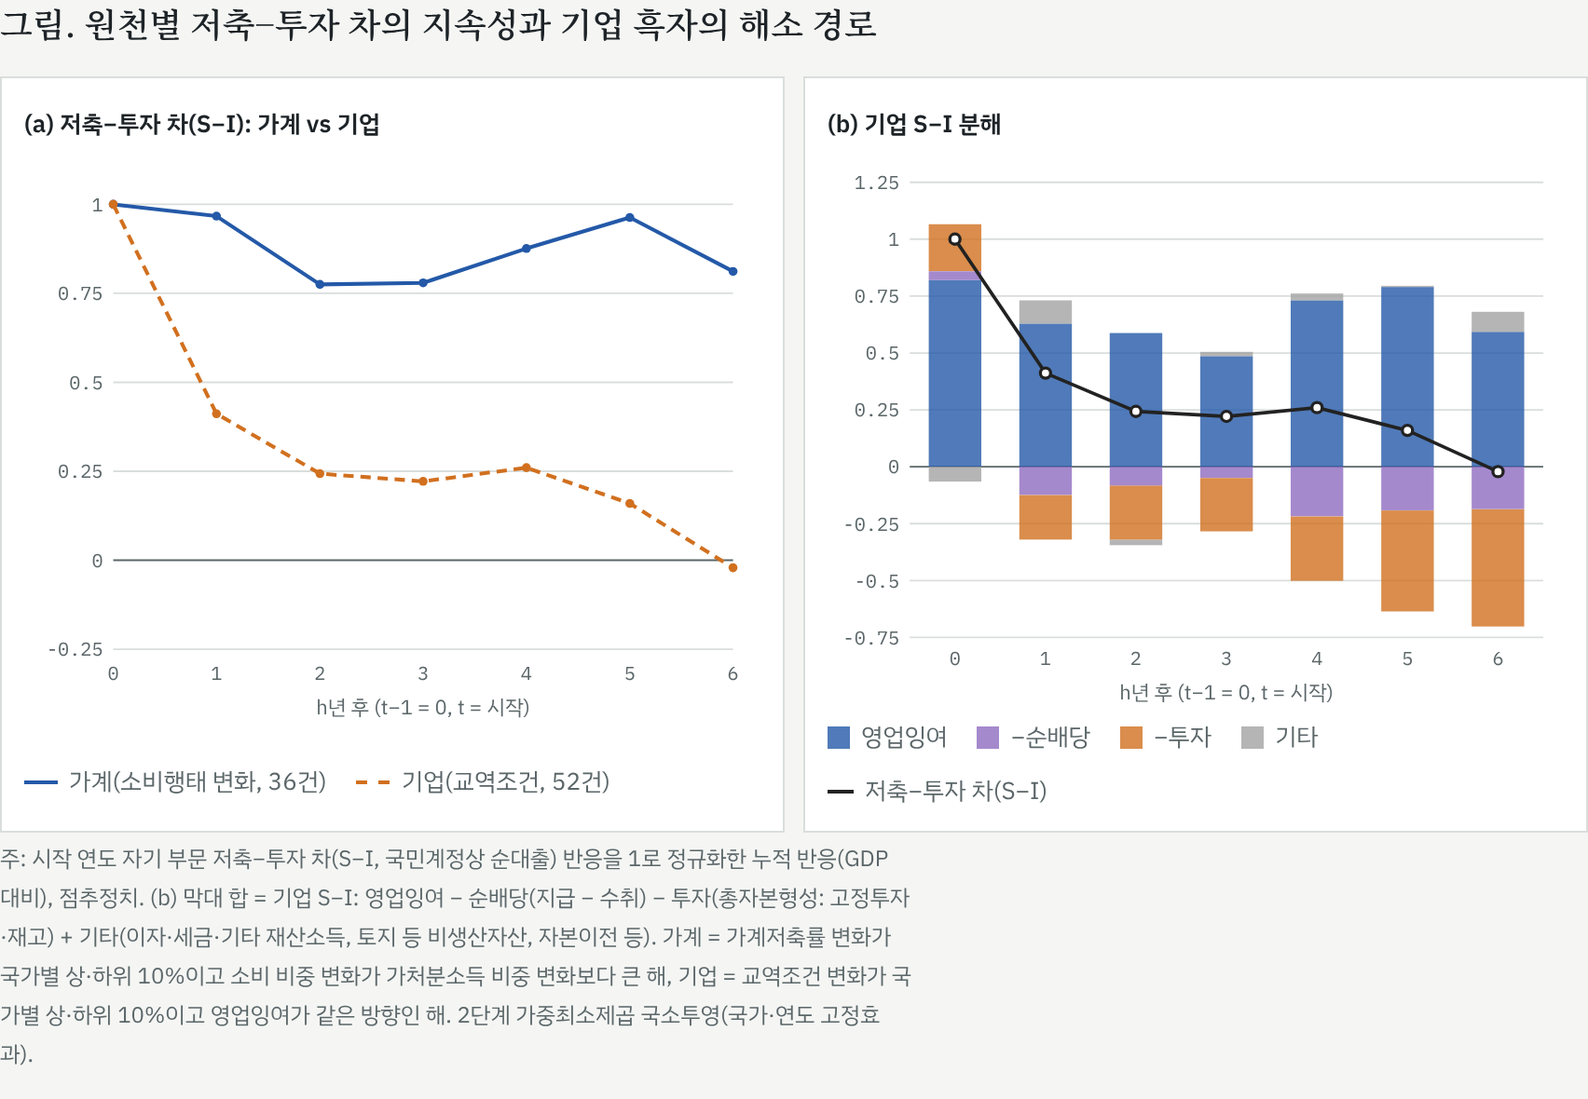
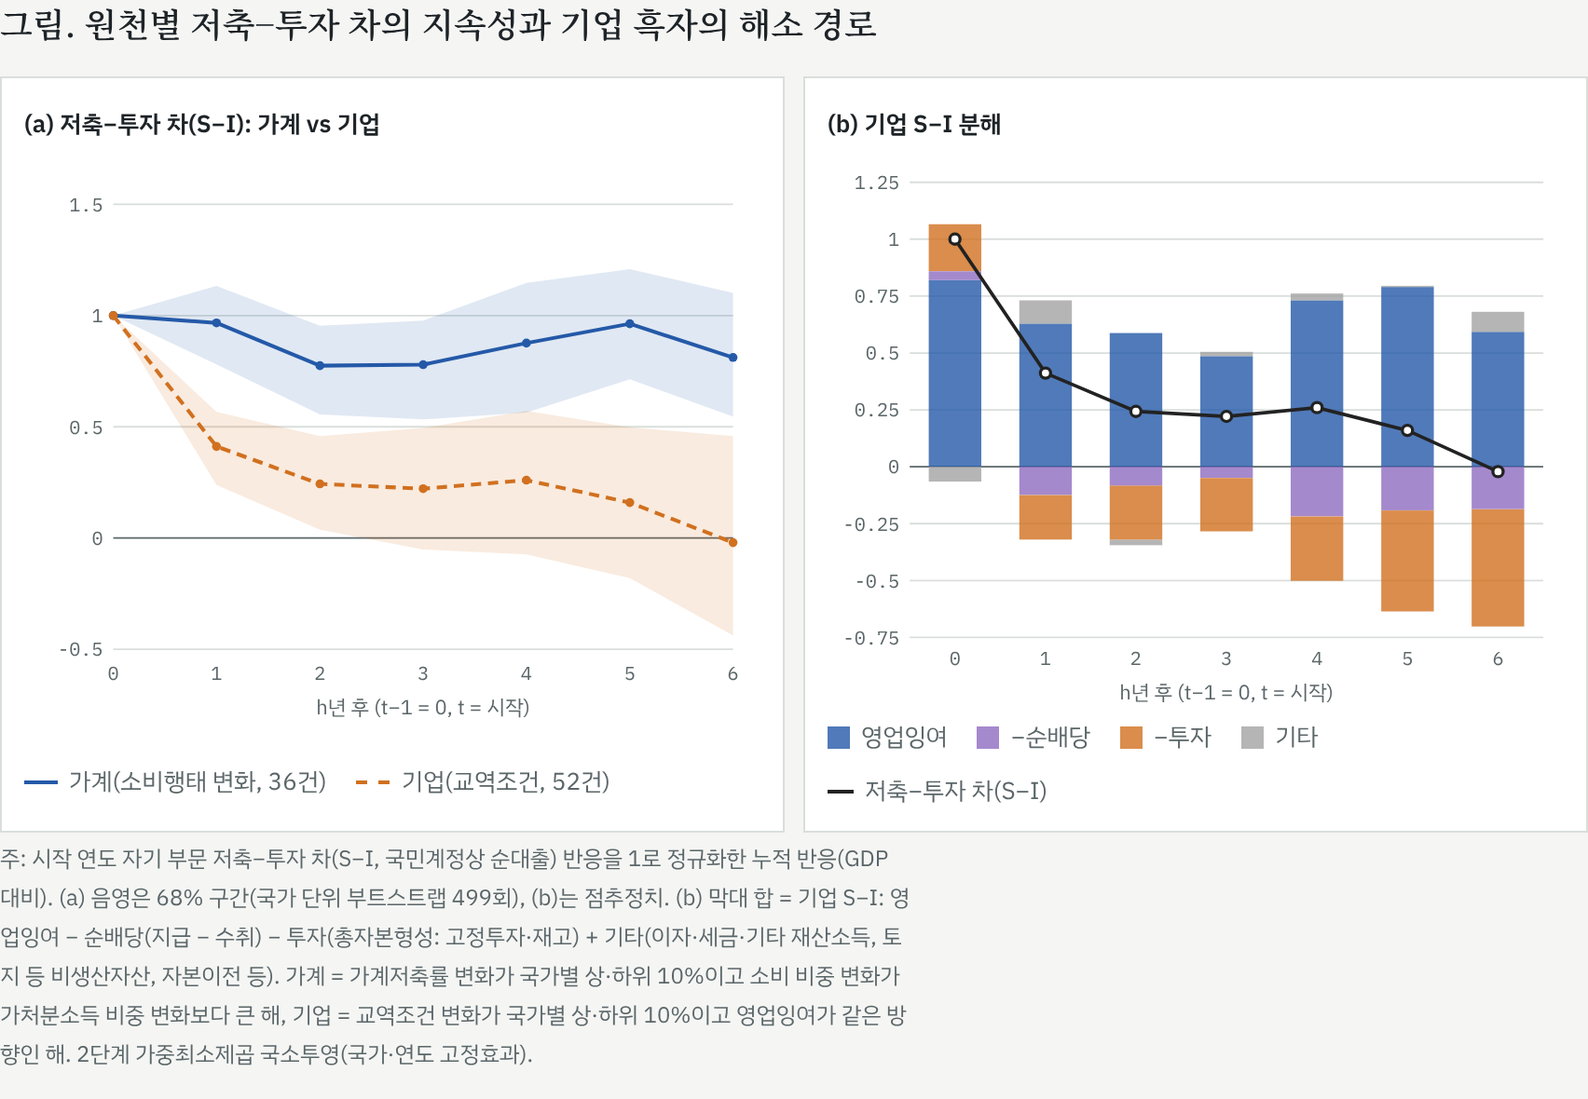
Add 68% bands to the household vs corporate S−I panel
Claude-Session: https://claude.ai/code/session_01QSFGVrqZTZBvgbV4CUsjF6

diff --git a/research/sector_saving_ca/output/ep_report_bars.html b/research/sector_saving_ca/output/ep_report_bars.html
@@ -79,6 +79,6 @@ footer { font-size: 13px; color: var(--muted); border-top: 1px solid var(--rule)
 </style>
 
 <style>
-svg .line.s1{stroke:#2459a8;fill:none;stroke-width:2.2} svg .dot.s1{fill:#2459a8}
-svg .line.s2{stroke:#d1701f;fill:none;stroke-width:2.2;stroke-dasharray:6 4} svg .dot.s2{fill:#d1701f}
-.sw.s1{border-color:#2459a8} .sw.s2{border-color:#d1701f;border-top-style:dashed}</style></head><body><main style="max-width:900px"><section id="F"><h2 style="font-size:18px">그림. 원천별 저축−투자 차의 지속성과 기업 흑자의 해소 경로</h2><div style="display:grid;grid-template-columns:1fr 1fr;gap:10px"><figure><div class="panel-title">(a) 저축−투자 차(S−I): 가계 vs 기업</div><svg viewBox="0 0 430 320" role="img" aria-label="(a) 저축−투자 차(S−I): 가계 vs 기업"><line class="grid" x1="52" x2="414" y1="276.0" y2="276.0"/><text class="tick" x="46" y="280.0" text-anchor="end">-0.25</text><line class="zero" x1="52" x2="414" y1="224.0" y2="224.0"/><text class="tick" x="46" y="228.0" text-anchor="end">0</text><line class="grid" x1="52" x2="414" y1="172.0" y2="172.0"/><text class="tick" x="46" y="176.0" text-anchor="end">0.25</text><line class="grid" x1="52" x2="414" y1="120.0" y2="120.0"/><text class="tick" x="46" y="124.0" text-anchor="end">0.5</text><line class="grid" x1="52" x2="414" y1="68.0" y2="68.0"/><text class="tick" x="46" y="72.0" text-anchor="end">0.75</text><line class="grid" x1="52" x2="414" y1="16.0" y2="16.0"/><text class="tick" x="46" y="20.0" text-anchor="end">1</text><text class="tick" x="52.0" y="294" text-anchor="middle">0</text><text class="tick" x="112.3" y="294" text-anchor="middle">1</text><text class="tick" x="172.7" y="294" text-anchor="middle">2</text><text class="tick" x="233.0" y="294" text-anchor="middle">3</text><text class="tick" x="293.3" y="294" text-anchor="middle">4</text><text class="tick" x="353.7" y="294" text-anchor="middle">5</text><text class="tick" x="414.0" y="294" text-anchor="middle">6</text><text class="axis" x="233.0" y="314" text-anchor="middle">h년 후 (t−1 = 0, t = 시작)</text><polyline class="line s1" points="52.0,16.0 112.3,22.9 172.7,62.8 233.0,61.9 293.3,41.8 353.7,23.7 414.0,55.2"/><circle class="dot s1" cx="52.0" cy="16.0" r="2.6"/><circle class="dot s1" cx="112.3" cy="22.9" r="2.6"/><circle class="dot s1" cx="172.7" cy="62.8" r="2.6"/><circle class="dot s1" cx="233.0" cy="61.9" r="2.6"/><circle class="dot s1" cx="293.3" cy="41.8" r="2.6"/><circle class="dot s1" cx="353.7" cy="23.7" r="2.6"/><circle class="dot s1" cx="414.0" cy="55.2" r="2.6"/><polyline class="line s2" points="52.0,16.0 112.3,138.4 172.7,173.4 233.0,177.9 293.3,169.9 353.7,190.8 414.0,228.4"/><circle class="dot s2" cx="52.0" cy="16.0" r="2.6"/><circle class="dot s2" cx="112.3" cy="138.4" r="2.6"/><circle class="dot s2" cx="172.7" cy="173.4" r="2.6"/><circle class="dot s2" cx="233.0" cy="177.9" r="2.6"/><circle class="dot s2" cx="293.3" cy="169.9" r="2.6"/><circle class="dot s2" cx="353.7" cy="190.8" r="2.6"/><circle class="dot s2" cx="414.0" cy="228.4" r="2.6"/></svg><div class="legend"><span><i class="sw s1"></i>가계(소비행태 변화, 36건)</span><span><i class="sw s2"></i>기업(교역조건, 52건)</span></div></figure><figure><div class="panel-title">(b) 기업 S−I 분해</div><svg viewBox="0 0 430 320" role="img" aria-label="(b) 기업 S−I 분해"><line class="grid" x1="48" x2="418" y1="280.0" y2="280.0"/><text class="tick" x="42" y="284.0" text-anchor="end">-0.75</text><line class="grid" x1="48" x2="418" y1="246.8" y2="246.8"/><text class="tick" x="42" y="250.8" text-anchor="end">-0.5</text><line class="grid" x1="48" x2="418" y1="213.5" y2="213.5"/><text class="tick" x="42" y="217.5" text-anchor="end">-0.25</text><line class="zero" x1="48" x2="418" y1="180.2" y2="180.2"/><text class="tick" x="42" y="184.2" text-anchor="end">0</text><line class="grid" x1="48" x2="418" y1="147.0" y2="147.0"/><text class="tick" x="42" y="151.0" text-anchor="end">0.25</text><line class="grid" x1="48" x2="418" y1="113.8" y2="113.8"/><text class="tick" x="42" y="117.8" text-anchor="end">0.5</text><line class="grid" x1="48" x2="418" y1="80.5" y2="80.5"/><text class="tick" x="42" y="84.5" text-anchor="end">0.75</text><line class="grid" x1="48" x2="418" y1="47.2" y2="47.2"/><text class="tick" x="42" y="51.2" text-anchor="end">1</text><line class="grid" x1="48" x2="418" y1="14.0" y2="14.0"/><text class="tick" x="42" y="18.0" text-anchor="end">1.25</text><rect x="59.1" y="71.1" width="30.7" height="109.2" fill="#2459a8" opacity=".8"/><rect x="59.1" y="66.0" width="30.7" height="5.1" fill="#8e6cc0" opacity=".8"/><rect x="59.1" y="38.5" width="30.7" height="27.4" fill="#d1701f" opacity=".8"/><rect x="59.1" y="180.2" width="30.7" height="8.7" fill="#a3a3a3" opacity=".8"/><text class="tick" x="74.4" y="296" text-anchor="middle">0</text><rect x="112.0" y="96.6" width="30.7" height="83.6" fill="#2459a8" opacity=".8"/><rect x="112.0" y="180.2" width="30.7" height="16.5" fill="#8e6cc0" opacity=".8"/><rect x="112.0" y="196.8" width="30.7" height="26.0" fill="#d1701f" opacity=".8"/><rect x="112.0" y="83.0" width="30.7" height="13.6" fill="#a3a3a3" opacity=".8"/><text class="tick" x="127.3" y="296" text-anchor="middle">1</text><rect x="164.8" y="102.1" width="30.7" height="78.2" fill="#2459a8" opacity=".8"/><rect x="164.8" y="180.2" width="30.7" height="11.1" fill="#8e6cc0" opacity=".8"/><rect x="164.8" y="191.3" width="30.7" height="31.6" fill="#d1701f" opacity=".8"/><rect x="164.8" y="222.9" width="30.7" height="3.2" fill="#a3a3a3" opacity=".8"/><text class="tick" x="180.1" y="296" text-anchor="middle">2</text><rect x="217.7" y="115.6" width="30.7" height="64.6" fill="#2459a8" opacity=".8"/><rect x="217.7" y="180.2" width="30.7" height="6.5" fill="#8e6cc0" opacity=".8"/><rect x="217.7" y="186.8" width="30.7" height="31.2" fill="#d1701f" opacity=".8"/><rect x="217.7" y="113.1" width="30.7" height="2.5" fill="#a3a3a3" opacity=".8"/><text class="tick" x="233.0" y="296" text-anchor="middle">3</text><rect x="270.5" y="83.0" width="30.7" height="97.2" fill="#2459a8" opacity=".8"/><rect x="270.5" y="180.2" width="30.7" height="29.0" fill="#8e6cc0" opacity=".8"/><rect x="270.5" y="209.3" width="30.7" height="37.6" fill="#d1701f" opacity=".8"/><rect x="270.5" y="79.0" width="30.7" height="4.0" fill="#a3a3a3" opacity=".8"/><text class="tick" x="285.9" y="296" text-anchor="middle">4</text><rect x="323.4" y="75.2" width="30.7" height="105.0" fill="#2459a8" opacity=".8"/><rect x="323.4" y="180.2" width="30.7" height="25.5" fill="#8e6cc0" opacity=".8"/><rect x="323.4" y="205.8" width="30.7" height="59.0" fill="#d1701f" opacity=".8"/><rect x="323.4" y="74.5" width="30.7" height="0.7" fill="#a3a3a3" opacity=".8"/><text class="tick" x="338.7" y="296" text-anchor="middle">5</text><rect x="376.2" y="101.4" width="30.7" height="78.8" fill="#2459a8" opacity=".8"/><rect x="376.2" y="180.2" width="30.7" height="24.8" fill="#8e6cc0" opacity=".8"/><rect x="376.2" y="205.1" width="30.7" height="68.5" fill="#d1701f" opacity=".8"/><rect x="376.2" y="89.7" width="30.7" height="11.7" fill="#a3a3a3" opacity=".8"/><text class="tick" x="391.6" y="296" text-anchor="middle">6</text><text class="axis" x="233.0" y="316" text-anchor="middle">h년 후 (t−1 = 0, t = 시작)</text><polyline points="74.4,47.2 127.3,125.5 180.1,147.9 233.0,150.8 285.9,145.7 338.7,159.0 391.6,183.1" fill="none" stroke="#222" stroke-width="2"/><circle cx="74.4" cy="47.2" r="3" fill="#fff" stroke="#222" stroke-width="1.8"/><circle cx="127.3" cy="125.5" r="3" fill="#fff" stroke="#222" stroke-width="1.8"/><circle cx="180.1" cy="147.9" r="3" fill="#fff" stroke="#222" stroke-width="1.8"/><circle cx="233.0" cy="150.8" r="3" fill="#fff" stroke="#222" stroke-width="1.8"/><circle cx="285.9" cy="145.7" r="3" fill="#fff" stroke="#222" stroke-width="1.8"/><circle cx="338.7" cy="159.0" r="3" fill="#fff" stroke="#222" stroke-width="1.8"/><circle cx="391.6" cy="183.1" r="3" fill="#fff" stroke="#222" stroke-width="1.8"/></svg><div class="legend"><span><i style="display:inline-block;width:12px;height:12px;background:#2459a8;opacity:.8"></i>영업잉여</span><span><i style="display:inline-block;width:12px;height:12px;background:#8e6cc0;opacity:.8"></i>−순배당</span><span><i style="display:inline-block;width:12px;height:12px;background:#d1701f;opacity:.8"></i>−투자</span><span><i style="display:inline-block;width:12px;height:12px;background:#a3a3a3;opacity:.8"></i>기타</span><span><i style="display:inline-block;width:14px;border-top:2px solid #222"></i>저축−투자 차(S−I)</span></div></figure></div><p class="ci" style="font-size:12px">주: 시작 연도 자기 부문 저축−투자 차(S−I, 국민계정상 순대출) 반응을 1로 정규화한 누적 반응(GDP 대비), 점추정치. (b) 막대 합 = 기업 S−I: 영업잉여 − 순배당(지급 − 수취) − 투자(총자본형성: 고정투자·재고) + 기타(이자·세금·기타 재산소득, 토지 등 비생산자산, 자본이전 등). 가계 = 가계저축률 변화가 국가별 상·하위 10%이고 소비 비중 변화가 가처분소득 비중 변화보다 큰 해, 기업 = 교역조건 변화가 국가별 상·하위 10%이고 영업잉여가 같은 방향인 해. 2단계 가중최소제곱 국소투영(국가·연도 고정효과).</p></section></main></body></html>
+svg .line.s1{stroke:#2459a8;fill:none;stroke-width:2.2} svg .dot.s1{fill:#2459a8} svg .band.s1{fill:#2459a8;opacity:.14}
+svg .line.s2{stroke:#d1701f;fill:none;stroke-width:2.2;stroke-dasharray:6 4} svg .dot.s2{fill:#d1701f} svg .band.s2{fill:#d1701f;opacity:.14}
+.sw.s1{border-color:#2459a8} .sw.s2{border-color:#d1701f;border-top-style:dashed}</style></head><body><main style="max-width:900px"><section id="F"><h2 style="font-size:18px">그림. 원천별 저축−투자 차의 지속성과 기업 흑자의 해소 경로</h2><div style="display:grid;grid-template-columns:1fr 1fr;gap:10px"><figure><div class="panel-title">(a) 저축−투자 차(S−I): 가계 vs 기업</div><svg viewBox="0 0 430 320" role="img" aria-label="(a) 저축−투자 차(S−I): 가계 vs 기업"><line class="grid" x1="52" x2="414" y1="276.0" y2="276.0"/><text class="tick" x="46" y="280.0" text-anchor="end">-0.5</text><line class="zero" x1="52" x2="414" y1="211.0" y2="211.0"/><text class="tick" x="46" y="215.0" text-anchor="end">0</text><line class="grid" x1="52" x2="414" y1="146.0" y2="146.0"/><text class="tick" x="46" y="150.0" text-anchor="end">0.5</text><line class="grid" x1="52" x2="414" y1="81.0" y2="81.0"/><text class="tick" x="46" y="85.0" text-anchor="end">1</text><line class="grid" x1="52" x2="414" y1="16.0" y2="16.0"/><text class="tick" x="46" y="20.0" text-anchor="end">1.5</text><text class="tick" x="52.0" y="294" text-anchor="middle">0</text><text class="tick" x="112.3" y="294" text-anchor="middle">1</text><text class="tick" x="172.7" y="294" text-anchor="middle">2</text><text class="tick" x="233.0" y="294" text-anchor="middle">3</text><text class="tick" x="293.3" y="294" text-anchor="middle">4</text><text class="tick" x="353.7" y="294" text-anchor="middle">5</text><text class="tick" x="414.0" y="294" text-anchor="middle">6</text><text class="axis" x="233.0" y="314" text-anchor="middle">h년 후 (t−1 = 0, t = 시작)</text><polygon class="band s1" points="52.0,81.0 112.3,63.7 172.7,87.0 233.0,83.9 293.3,61.9 353.7,53.9 414.0,67.7 414.0,140.0 353.7,118.3 293.3,137.7 233.0,141.7 172.7,138.8 112.3,109.5 52.0,81.0"/><polygon class="band s2" points="52.0,81.0 112.3,137.3 172.7,151.4 233.0,146.7 293.3,136.7 353.7,146.3 414.0,151.4 414.0,267.9 353.7,234.5 293.3,220.6 233.0,217.7 172.7,206.2 112.3,180.0 52.0,81.0"/><polyline class="line s1" points="52.0,81.0 112.3,85.3 172.7,110.3 233.0,109.7 293.3,97.1 353.7,85.8 414.0,105.5"/><circle class="dot s1" cx="52.0" cy="81.0" r="2.6"/><circle class="dot s1" cx="112.3" cy="85.3" r="2.6"/><circle class="dot s1" cx="172.7" cy="110.3" r="2.6"/><circle class="dot s1" cx="233.0" cy="109.7" r="2.6"/><circle class="dot s1" cx="293.3" cy="97.1" r="2.6"/><circle class="dot s1" cx="353.7" cy="85.8" r="2.6"/><circle class="dot s1" cx="414.0" cy="105.5" r="2.6"/><polyline class="line s2" points="52.0,81.0 112.3,157.5 172.7,179.4 233.0,182.2 293.3,177.2 353.7,190.3 414.0,213.7"/><circle class="dot s2" cx="52.0" cy="81.0" r="2.6"/><circle class="dot s2" cx="112.3" cy="157.5" r="2.6"/><circle class="dot s2" cx="172.7" cy="179.4" r="2.6"/><circle class="dot s2" cx="233.0" cy="182.2" r="2.6"/><circle class="dot s2" cx="293.3" cy="177.2" r="2.6"/><circle class="dot s2" cx="353.7" cy="190.3" r="2.6"/><circle class="dot s2" cx="414.0" cy="213.7" r="2.6"/></svg><div class="legend"><span><i class="sw s1"></i>가계(소비행태 변화, 36건)</span><span><i class="sw s2"></i>기업(교역조건, 52건)</span></div></figure><figure><div class="panel-title">(b) 기업 S−I 분해</div><svg viewBox="0 0 430 320" role="img" aria-label="(b) 기업 S−I 분해"><line class="grid" x1="48" x2="418" y1="280.0" y2="280.0"/><text class="tick" x="42" y="284.0" text-anchor="end">-0.75</text><line class="grid" x1="48" x2="418" y1="246.8" y2="246.8"/><text class="tick" x="42" y="250.8" text-anchor="end">-0.5</text><line class="grid" x1="48" x2="418" y1="213.5" y2="213.5"/><text class="tick" x="42" y="217.5" text-anchor="end">-0.25</text><line class="zero" x1="48" x2="418" y1="180.2" y2="180.2"/><text class="tick" x="42" y="184.2" text-anchor="end">0</text><line class="grid" x1="48" x2="418" y1="147.0" y2="147.0"/><text class="tick" x="42" y="151.0" text-anchor="end">0.25</text><line class="grid" x1="48" x2="418" y1="113.8" y2="113.8"/><text class="tick" x="42" y="117.8" text-anchor="end">0.5</text><line class="grid" x1="48" x2="418" y1="80.5" y2="80.5"/><text class="tick" x="42" y="84.5" text-anchor="end">0.75</text><line class="grid" x1="48" x2="418" y1="47.2" y2="47.2"/><text class="tick" x="42" y="51.2" text-anchor="end">1</text><line class="grid" x1="48" x2="418" y1="14.0" y2="14.0"/><text class="tick" x="42" y="18.0" text-anchor="end">1.25</text><rect x="59.1" y="71.1" width="30.7" height="109.2" fill="#2459a8" opacity=".8"/><rect x="59.1" y="66.0" width="30.7" height="5.1" fill="#8e6cc0" opacity=".8"/><rect x="59.1" y="38.5" width="30.7" height="27.4" fill="#d1701f" opacity=".8"/><rect x="59.1" y="180.2" width="30.7" height="8.7" fill="#a3a3a3" opacity=".8"/><text class="tick" x="74.4" y="296" text-anchor="middle">0</text><rect x="112.0" y="96.6" width="30.7" height="83.6" fill="#2459a8" opacity=".8"/><rect x="112.0" y="180.2" width="30.7" height="16.5" fill="#8e6cc0" opacity=".8"/><rect x="112.0" y="196.8" width="30.7" height="26.0" fill="#d1701f" opacity=".8"/><rect x="112.0" y="83.0" width="30.7" height="13.6" fill="#a3a3a3" opacity=".8"/><text class="tick" x="127.3" y="296" text-anchor="middle">1</text><rect x="164.8" y="102.1" width="30.7" height="78.2" fill="#2459a8" opacity=".8"/><rect x="164.8" y="180.2" width="30.7" height="11.1" fill="#8e6cc0" opacity=".8"/><rect x="164.8" y="191.3" width="30.7" height="31.6" fill="#d1701f" opacity=".8"/><rect x="164.8" y="222.9" width="30.7" height="3.2" fill="#a3a3a3" opacity=".8"/><text class="tick" x="180.1" y="296" text-anchor="middle">2</text><rect x="217.7" y="115.6" width="30.7" height="64.6" fill="#2459a8" opacity=".8"/><rect x="217.7" y="180.2" width="30.7" height="6.5" fill="#8e6cc0" opacity=".8"/><rect x="217.7" y="186.8" width="30.7" height="31.2" fill="#d1701f" opacity=".8"/><rect x="217.7" y="113.1" width="30.7" height="2.5" fill="#a3a3a3" opacity=".8"/><text class="tick" x="233.0" y="296" text-anchor="middle">3</text><rect x="270.5" y="83.0" width="30.7" height="97.2" fill="#2459a8" opacity=".8"/><rect x="270.5" y="180.2" width="30.7" height="29.0" fill="#8e6cc0" opacity=".8"/><rect x="270.5" y="209.3" width="30.7" height="37.6" fill="#d1701f" opacity=".8"/><rect x="270.5" y="79.0" width="30.7" height="4.0" fill="#a3a3a3" opacity=".8"/><text class="tick" x="285.9" y="296" text-anchor="middle">4</text><rect x="323.4" y="75.2" width="30.7" height="105.0" fill="#2459a8" opacity=".8"/><rect x="323.4" y="180.2" width="30.7" height="25.5" fill="#8e6cc0" opacity=".8"/><rect x="323.4" y="205.8" width="30.7" height="59.0" fill="#d1701f" opacity=".8"/><rect x="323.4" y="74.5" width="30.7" height="0.7" fill="#a3a3a3" opacity=".8"/><text class="tick" x="338.7" y="296" text-anchor="middle">5</text><rect x="376.2" y="101.4" width="30.7" height="78.8" fill="#2459a8" opacity=".8"/><rect x="376.2" y="180.2" width="30.7" height="24.8" fill="#8e6cc0" opacity=".8"/><rect x="376.2" y="205.1" width="30.7" height="68.5" fill="#d1701f" opacity=".8"/><rect x="376.2" y="89.7" width="30.7" height="11.7" fill="#a3a3a3" opacity=".8"/><text class="tick" x="391.6" y="296" text-anchor="middle">6</text><text class="axis" x="233.0" y="316" text-anchor="middle">h년 후 (t−1 = 0, t = 시작)</text><polyline points="74.4,47.2 127.3,125.5 180.1,147.9 233.0,150.8 285.9,145.7 338.7,159.0 391.6,183.1" fill="none" stroke="#222" stroke-width="2"/><circle cx="74.4" cy="47.2" r="3" fill="#fff" stroke="#222" stroke-width="1.8"/><circle cx="127.3" cy="125.5" r="3" fill="#fff" stroke="#222" stroke-width="1.8"/><circle cx="180.1" cy="147.9" r="3" fill="#fff" stroke="#222" stroke-width="1.8"/><circle cx="233.0" cy="150.8" r="3" fill="#fff" stroke="#222" stroke-width="1.8"/><circle cx="285.9" cy="145.7" r="3" fill="#fff" stroke="#222" stroke-width="1.8"/><circle cx="338.7" cy="159.0" r="3" fill="#fff" stroke="#222" stroke-width="1.8"/><circle cx="391.6" cy="183.1" r="3" fill="#fff" stroke="#222" stroke-width="1.8"/></svg><div class="legend"><span><i style="display:inline-block;width:12px;height:12px;background:#2459a8;opacity:.8"></i>영업잉여</span><span><i style="display:inline-block;width:12px;height:12px;background:#8e6cc0;opacity:.8"></i>−순배당</span><span><i style="display:inline-block;width:12px;height:12px;background:#d1701f;opacity:.8"></i>−투자</span><span><i style="display:inline-block;width:12px;height:12px;background:#a3a3a3;opacity:.8"></i>기타</span><span><i style="display:inline-block;width:14px;border-top:2px solid #222"></i>저축−투자 차(S−I)</span></div></figure></div><p class="ci" style="font-size:12px">주: 시작 연도 자기 부문 저축−투자 차(S−I, 국민계정상 순대출) 반응을 1로 정규화한 누적 반응(GDP 대비). (a) 음영은 68% 구간(국가 단위 부트스트랩 499회), (b)는 점추정치. (b) 막대 합 = 기업 S−I: 영업잉여 − 순배당(지급 − 수취) − 투자(총자본형성: 고정투자·재고) + 기타(이자·세금·기타 재산소득, 토지 등 비생산자산, 자본이전 등). 가계 = 가계저축률 변화가 국가별 상·하위 10%이고 소비 비중 변화가 가처분소득 비중 변화보다 큰 해, 기업 = 교역조건 변화가 국가별 상·하위 10%이고 영업잉여가 같은 방향인 해. 2단계 가중최소제곱 국소투영(국가·연도 고정효과).</p></section></main></body></html>

diff --git a/research/sector_saving_ca/render_ep_bars.py b/research/sector_saving_ca/render_ep_bars.py
@@ -1,4 +1,4 @@
-"""보고서 그림(점추정치, 구간 없음): 왼쪽 가계·기업 저축−투자 차(S−I) 선, 오른쪽 기업 S−I 분해 누적 막대.
+"""보고서 그림: 왼쪽 가계·기업 저축−투자 차(S−I) 선(68% 구간), 오른쪽 기업 S−I 분해 누적 막대(점추정치).
 
 기업 S−I = 영업잉여 − 순배당(지급 − 수취) − 투자(총자본형성: 고정투자·재고·귀중품) + 기타
   기타 = 이자·세금·기타 재산소득·경상이전 − 토지 등 비생산자산 취득 + 순자본이전 수취
@@ -78,10 +78,16 @@ def bars(r, title, w=430, h=320):
 
 def render(r):
     n_hh, n_corp = int(r[r.sector == "hh"].n.iloc[0]), int(r[r.sector == "corp"].n.iloc[0])
-    q = lambda s, v: r[(r.sector == s) & (r["var"] == v) & (r.h <= HMAX)].sort_values("h")
-    ser = [("s1", "", q("hh", "nl_hh").h.values, q("hh", "nl_hh").ratio.values, None, None),
-           ("s2", "", q("corp", "nl_corp").h.values, q("corp", "nl_corp").ratio.values, None, None)]
-    vals = np.r_[ser[0][3], ser[1][3]]
+    # 왼쪽 패널 68% 구간: 같은 사양의 부트스트랩 결과(ep_report.py --fgls --nl)
+    ci = pd.read_csv(OUT / "ep_report_fgls_nl.csv")
+    ci = ci[ci.kind == "resp"]
+    q = lambda s, v: ci[(ci.sector == s) & (ci["var"] == v) & (ci.h <= HMAX)].sort_values("h")
+    for s, v in (("hh", "nl_hh"), ("corp", "nl_corp")):  # 점추정치가 그림 오른쪽과 같은 사양인지 확인
+        a = r[(r.sector == s) & (r["var"] == v) & (r.h <= HMAX)].sort_values("h").ratio.values
+        assert np.allclose(a, q(s, v).ratio.values, atol=1e-6), f"{v}: 구간 파일과 점추정치가 다름"
+    ser = [("s1", "", q("hh", "nl_hh").h.values, q("hh", "nl_hh").ratio.values, q("hh", "nl_hh").lo68.values, q("hh", "nl_hh").hi68.values),
+           ("s2", "", q("corp", "nl_corp").h.values, q("corp", "nl_corp").ratio.values, q("corp", "nl_corp").lo68.values, q("corp", "nl_corp").hi68.values)]
+    vals = np.r_[ser[0][3], ser[0][4], ser[0][5], ser[1][3], ser[1][4], ser[1][5]]
     ylim = (np.floor(min(vals.min(), 0) / 0.25) * 0.25, np.ceil(max(vals.max(), 0) / 0.25) * 0.25)
     t1 = "(a) 저축−투자 차(S−I): 가계 vs 기업"
     left = (f'<figure><div class="panel-title">{t1}</div>{svg_lines(ser, XL, t1, w=430, h=320, ylim=ylim)}'
@@ -90,10 +96,11 @@ def render(r):
     right = bars(r[r.sector == "corp"], "(b) 기업 S−I 분해")
     style = (HERE / "report_template.html").read_text()
     style = style[:style.index("<main>")] + """<style>
-svg .line.s1{stroke:#2459a8;fill:none;stroke-width:2.2} svg .dot.s1{fill:#2459a8}
-svg .line.s2{stroke:#d1701f;fill:none;stroke-width:2.2;stroke-dasharray:6 4} svg .dot.s2{fill:#d1701f}
+svg .line.s1{stroke:#2459a8;fill:none;stroke-width:2.2} svg .dot.s1{fill:#2459a8} svg .band.s1{fill:#2459a8;opacity:.14}
+svg .line.s2{stroke:#d1701f;fill:none;stroke-width:2.2;stroke-dasharray:6 4} svg .dot.s2{fill:#d1701f} svg .band.s2{fill:#d1701f;opacity:.14}
 .sw.s1{border-color:#2459a8} .sw.s2{border-color:#d1701f;border-top-style:dashed}</style>"""
-    note = ("주: 시작 연도 자기 부문 저축−투자 차(S−I, 국민계정상 순대출) 반응을 1로 정규화한 누적 반응(GDP 대비), 점추정치. "
+    note = ("주: 시작 연도 자기 부문 저축−투자 차(S−I, 국민계정상 순대출) 반응을 1로 정규화한 누적 반응(GDP 대비). "
+            "(a) 음영은 68% 구간(국가 단위 부트스트랩 499회), (b)는 점추정치. "
             "(b) 막대 합 = 기업 S−I: 영업잉여 − 순배당(지급 − 수취) − 투자(총자본형성: 고정투자·재고) + 기타"
             "(이자·세금·기타 재산소득, 토지 등 비생산자산, 자본이전 등). "
             "가계 = 가계저축률 변화가 국가별 상·하위 10%이고 소비 비중 변화가 가처분소득 비중 변화보다 큰 해, "
